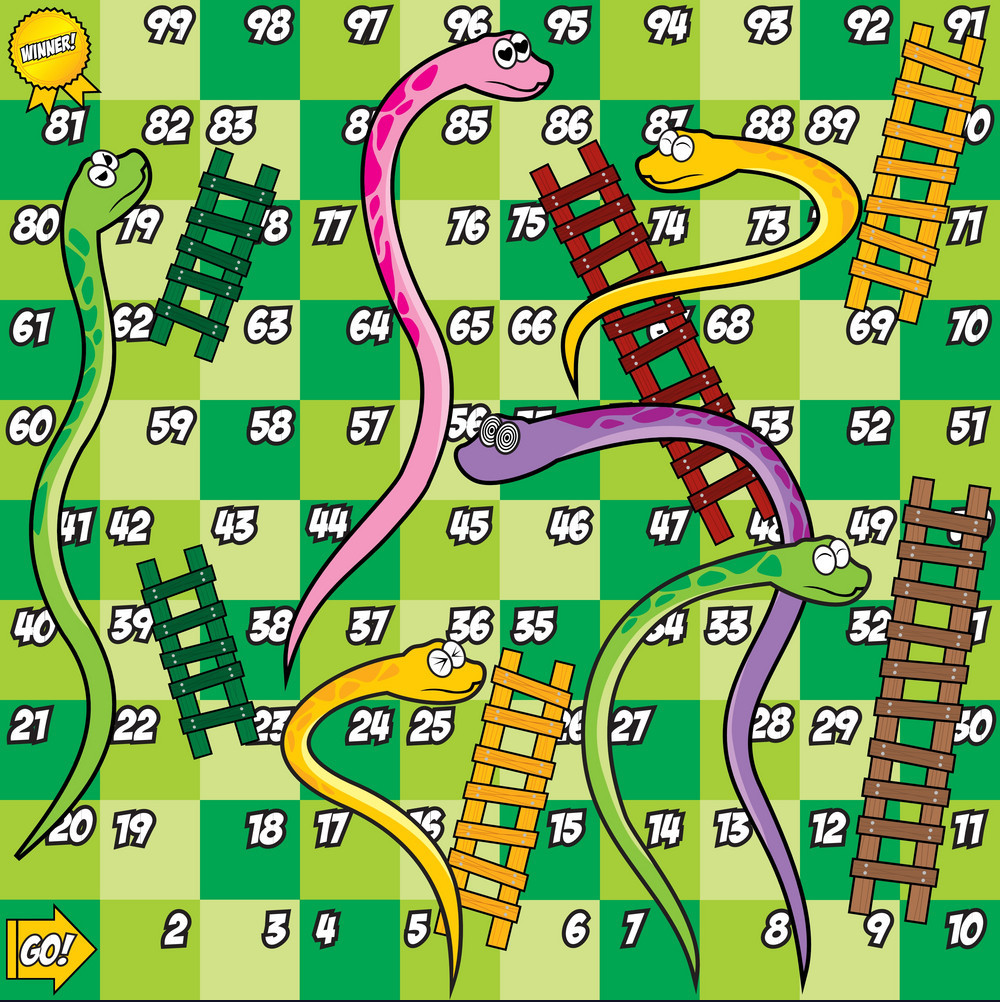
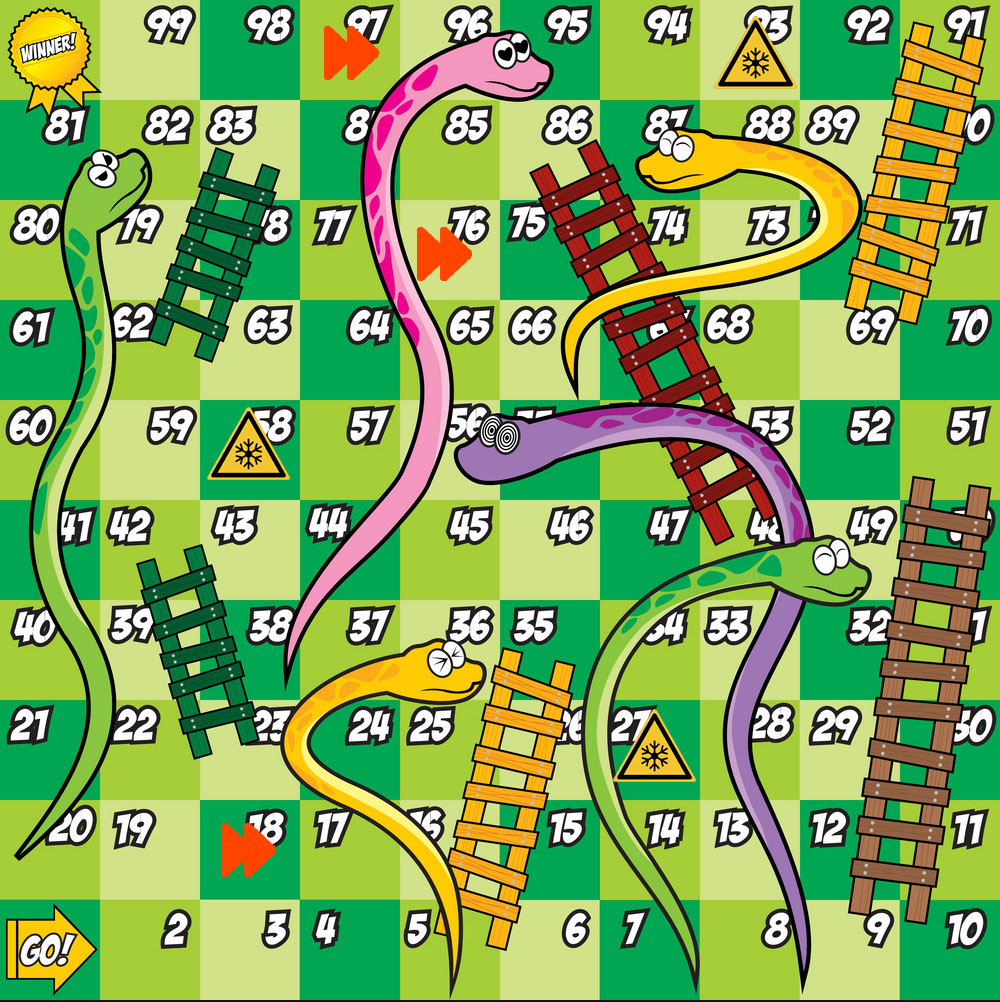
Edit Backward

diff --git a/src/game/Game.java b/src/game/Game.java
@@ -1,4 +1,5 @@
 package game;
+
 import java.util.ArrayList;
 import java.util.List;
 import java.util.Observable;
@@ -21,7 +22,17 @@ public class Game extends Observable {
 	public List<Integer> replaytmp = new ArrayList<Integer>();
 	private List<Ladder> ladder = new ArrayList<Ladder>();
 	private List<Snake> snake = new ArrayList<Snake>();
-	private Thread gameThread=new Thread(){@Override public void run(){super.run();while(running){oneGameLoop();}}};
+	private List<BackwardSquare> backlist = new ArrayList<BackwardSquare>();
+	private List<FreezeSquare> freezelist = new ArrayList<FreezeSquare>();
+	private Thread gameThread = new Thread() {
+		@Override
+		public void run() {
+			super.run();
+			while (running) {
+				oneGameLoop();
+			}
+		}
+	};
 
 	private Game() {
 		board = new Board();
@@ -40,6 +51,14 @@ public class Game extends Observable {
 		ladder.add(new Ladder(new Square(1, 5), new Square(2, 7)));
 		ladder.add(new Ladder(new Square(5, 6), new Square(4, 9)));
 		ladder.add(new Ladder(new Square(9, 4), new Square(8, 9)));
+
+		backlist.add(new BackwardSquare(3, 0));
+		backlist.add(new BackwardSquare(4, 2));
+		backlist.add(new BackwardSquare(2, 8));
+
+		freezelist.add(new FreezeSquare(7, 0));
+		freezelist.add(new FreezeSquare(2, 4));
+		freezelist.add(new FreezeSquare(6, 7));
 		updateBoard();
 	}
 
@@ -75,7 +94,22 @@ public class Game extends Observable {
 				}
 			}
 		}
-
+		for (FreezeSquare f : freezelist) {
+			for (Player player : players) {
+				if (f.getX() == player.getPosition().getX() && f.getY() == player.getPosition().getY()) {
+					if (player.getFreezeBool())
+						player.setFreezeBool(false);
+					else
+						player.setFreezeBool(true);
+				}
+			}
+		}
+		for (BackwardSquare b : backlist) {
+			for (Player player : players) {
+				if (b.getX() == player.getPosition().getX() && b.getY() == player.getPosition().getY())
+					player.moveBackWord(dice.getPoint());
+			}
+		}
 		for (Player player : players) {
 			if ((player.getPosition().getX() == 0 && player.getPosition().getY() == 0)) {
 				this.end();
@@ -196,21 +230,21 @@ public class Game extends Observable {
 		System.out.println(turn);
 		return new Memento(players, turn);
 	}
-	
+
 	public void load(Memento m) {
 		try {
-		int index = players.indexOf(m.currentPlayerM);
-		players.clear();
-		for (Player p : m.player) {
-			Player p1 = new Player();
-			p1.setPosition(new Square(p.getPosition().getX(), p.getPosition().getY()));
-			this.players.add(p1);
-		}
-		this.currentPlayer = players.get(index);
-		m.currentPlayerM=this.currentPlayer;
-		this.turn = m.turn;
-		currentPlayer.setState(new PlayerCanPlay(currentPlayer));
-		}catch (NullPointerException e) {
+			int index = players.indexOf(m.currentPlayerM);
+			players.clear();
+			for (Player p : m.player) {
+				Player p1 = new Player();
+				p1.setPosition(new Square(p.getPosition().getX(), p.getPosition().getY()));
+				this.players.add(p1);
+			}
+			this.currentPlayer = players.get(index);
+			m.currentPlayerM = this.currentPlayer;
+			this.turn = m.turn;
+			currentPlayer.setState(new PlayerCanPlay(currentPlayer));
+		} catch (NullPointerException e) {
 			JOptionPane.showMessageDialog(null, "Please save first");
 		}
 	}
@@ -218,8 +252,9 @@ public class Game extends Observable {
 	public static class Memento {
 		private List<Player> player = new ArrayList<Player>();
 		private int turn;
-		private Game game=Game.getInstance();
+		private Game game = Game.getInstance();
 		private Player currentPlayerM;
+
 		public Memento(List<Player> player, int turn) {
 			for (Player p : player) {
 				Player p1 = new Player();
@@ -227,7 +262,7 @@ public class Game extends Observable {
 				this.player.add(p1);
 			}
 			this.turn = turn;
-			currentPlayerM=game.getPlayer();
+			currentPlayerM = game.getPlayer();
 		}
 	}
 

diff --git a/src/player/Player.java b/src/player/Player.java
@@ -1,4 +1,5 @@
 package player;
+
 import java.util.ArrayList;
 import java.util.List;
 
@@ -12,6 +13,8 @@ public class Player {
 	private Square oldPosition;
 	private FreezeSquare freeze;
 	private BackwardSquare backward;
+	private BackwardSquare backward2;
+	private BackwardSquare backward3;
 	private boolean freezeBool = true;
 	private List<Square> replay = new ArrayList<Square>();
 
@@ -20,7 +23,9 @@ public class Player {
 		oldPosition = new Square(0, 9);
 		position = new Square(0, 9);
 		freeze = new FreezeSquare(2, 2);
-		backward = new BackwardSquare(9, 0);
+		backward = new BackwardSquare(3, 0);
+		backward2 = new BackwardSquare(4, 2);
+		backward3 = new BackwardSquare(2, 8);
 	}
 
 	public void setState(PlayerState state) {
@@ -69,20 +74,20 @@ public class Player {
 		oldPosition = new Square(this.position.getX(), this.position.getY());
 		if (this.state.isTurn() == false)
 			return;
-		if (freeze.getX() == position.getX() && freeze.getY() == position.getY()) {
-			if (freezeBool) {
-				freezeBool = false;
-				return;
-			}
-			freezeBool = true;
-		}
-		if (backward.getX() == position.getX() && backward.getY() == position.getY()) {
-			moveBackWord(point);
-			return;
-		}
+//		if (freeze.getX() == position.getX() && freeze.getY() == position.getY()) {
+//			if (freezeBool) {
+//				freezeBool = false;
+//				return;
+//			}
+//			freezeBool = true;
+//		}
+//		if (backward.getX() == position.getX() && backward.getY() == position.getY()) {
+//			moveBackWord(point);
+//			return;
+//		}
 		// ขวา
 		if (position.getX() + point < 10 && position.getY() % 2 == 1) {
-			position = new Square(position.getX()+point, position.getY());
+			position = new Square(position.getX() + point, position.getY());
 		}
 		// ขวาขึ้น1แถว
 		else if (position.getX() + point > 9 && position.getY() % 2 == 1 && position.getX() + point < 20) {
@@ -94,14 +99,14 @@ public class Player {
 		}
 		// ซ้าย1แถว
 		else if (position.getX() - point < 0 && position.getY() % 2 == 0 && -(position.getX() - point) - 1 < 10) {
-			if (position.getY() == 0&&position.getX() - point<=0) {
-				if(position.getX() - point==0) {
-				System.out.println("end!!");
-				position = new Square(0, 0);
-				}else{
-					int x=point-position.getX();
+			if (position.getY() == 0 && position.getX() - point <= 0) {
+				if (position.getX() - point == 0) {
+					System.out.println("end!!");
+					position = new Square(0, 0);
+				} else {
+					int x = point - position.getX();
 					position.setX(1);
-					moveBackWord(x-1);
+					moveBackWord(x - 1);
 				}
 			} else {
 				position = new Square(-(position.getX() - point) - 1, position.getY() - 1);
@@ -110,14 +115,14 @@ public class Player {
 		// ขวาขึ้น2แถว
 		else if (position.getX() + point > 19 && position.getY() % 2 == 1) {
 			if (position.getY() == 1 && (position.getX() > 7) && point > 10) {
-				if(point+position.getX()==19) {
-				System.out.println("end!!");
-				position = new Square(0, 0);
-				}else {
-					int x=point+position.getX()-19;
+				if (point + position.getX() == 19) {
+					System.out.println("end!!");
+					position = new Square(0, 0);
+				} else {
+					int x = point + position.getX() - 19;
 					position.setX(1);
 					position.setY(0);
-					moveBackWord(x-1);
+					moveBackWord(x - 1);
 				}
 			} else {
 				position = new Square(point + position.getX() - 20, position.getY() - 2);
@@ -144,5 +149,13 @@ public class Player {
 
 	public List<Square> getReplay() {
 		return replay;
+	}
+	
+	public void setFreezeBool(boolean freezeBool) {
+		this.freezeBool = freezeBool;
+	}
+	
+	public boolean getFreezeBool() {
+		return freezeBool;
 	}
 }

diff --git a/src/game/Dice.java b/src/game/Dice.java
@@ -7,8 +7,9 @@ public class Dice {
 
 	public void roll() {
 		Random rand=new Random();
-		firstDie=rand.nextInt(6)+1;
-		secondDie=rand.nextInt(6)+1;
+//		firstDie=rand.nextInt(6)+1;
+//		secondDie=rand.nextInt(6)+1;
+		firstDie = 26;
 	}
 	public int getFirstDie() {
 		return firstDie;
